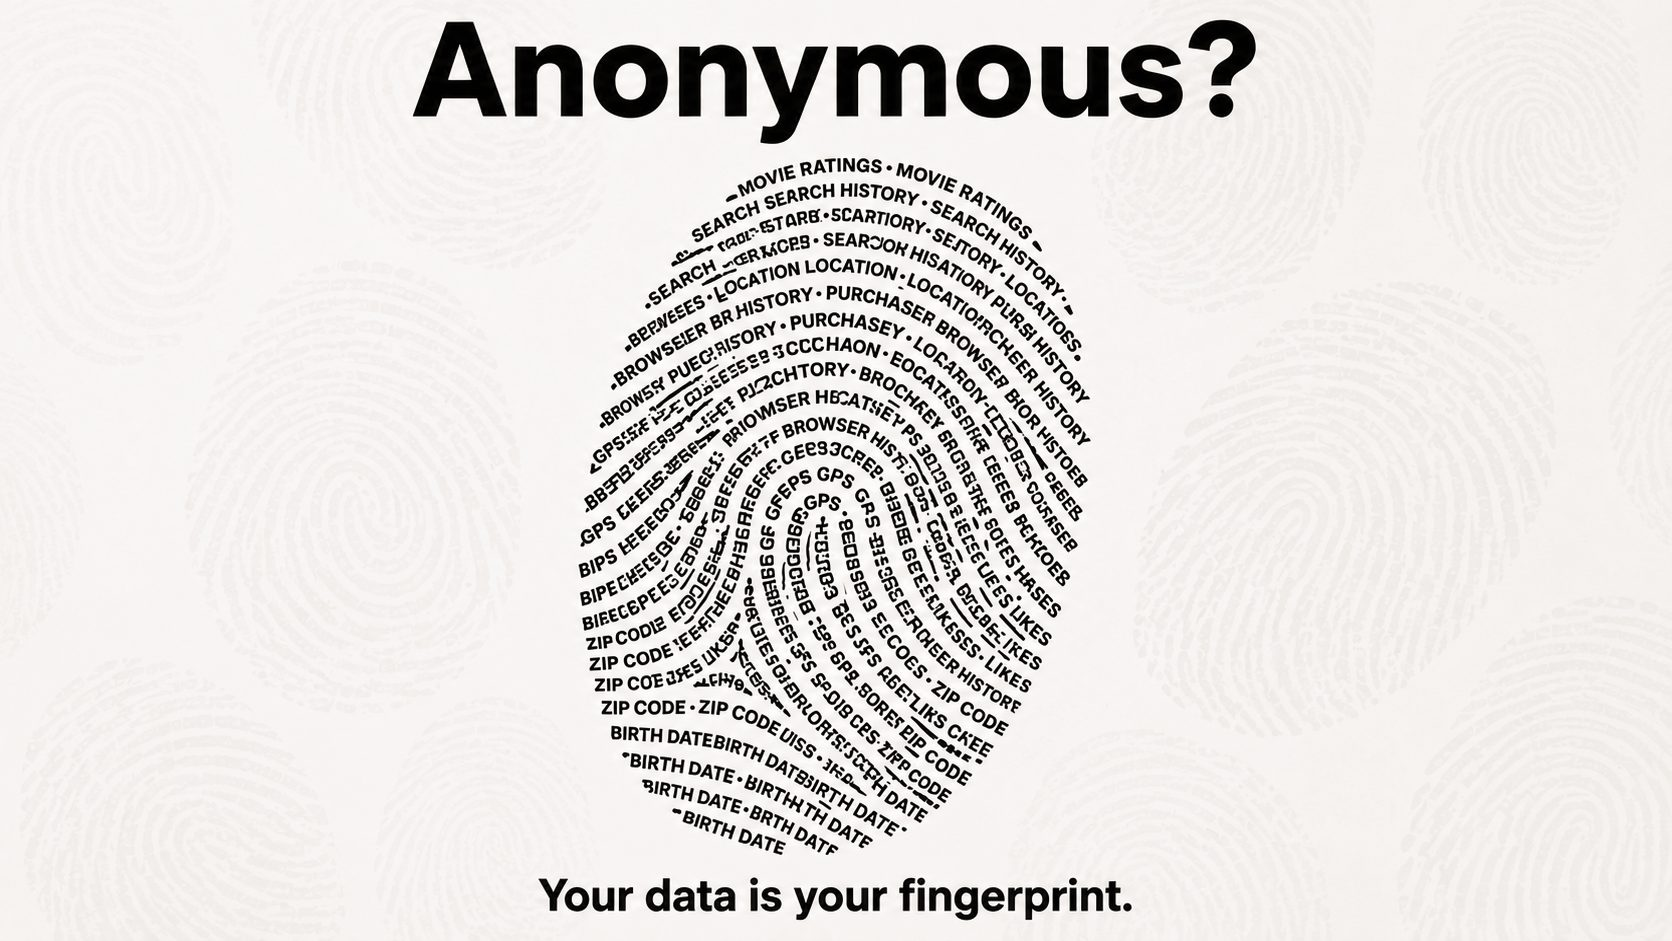
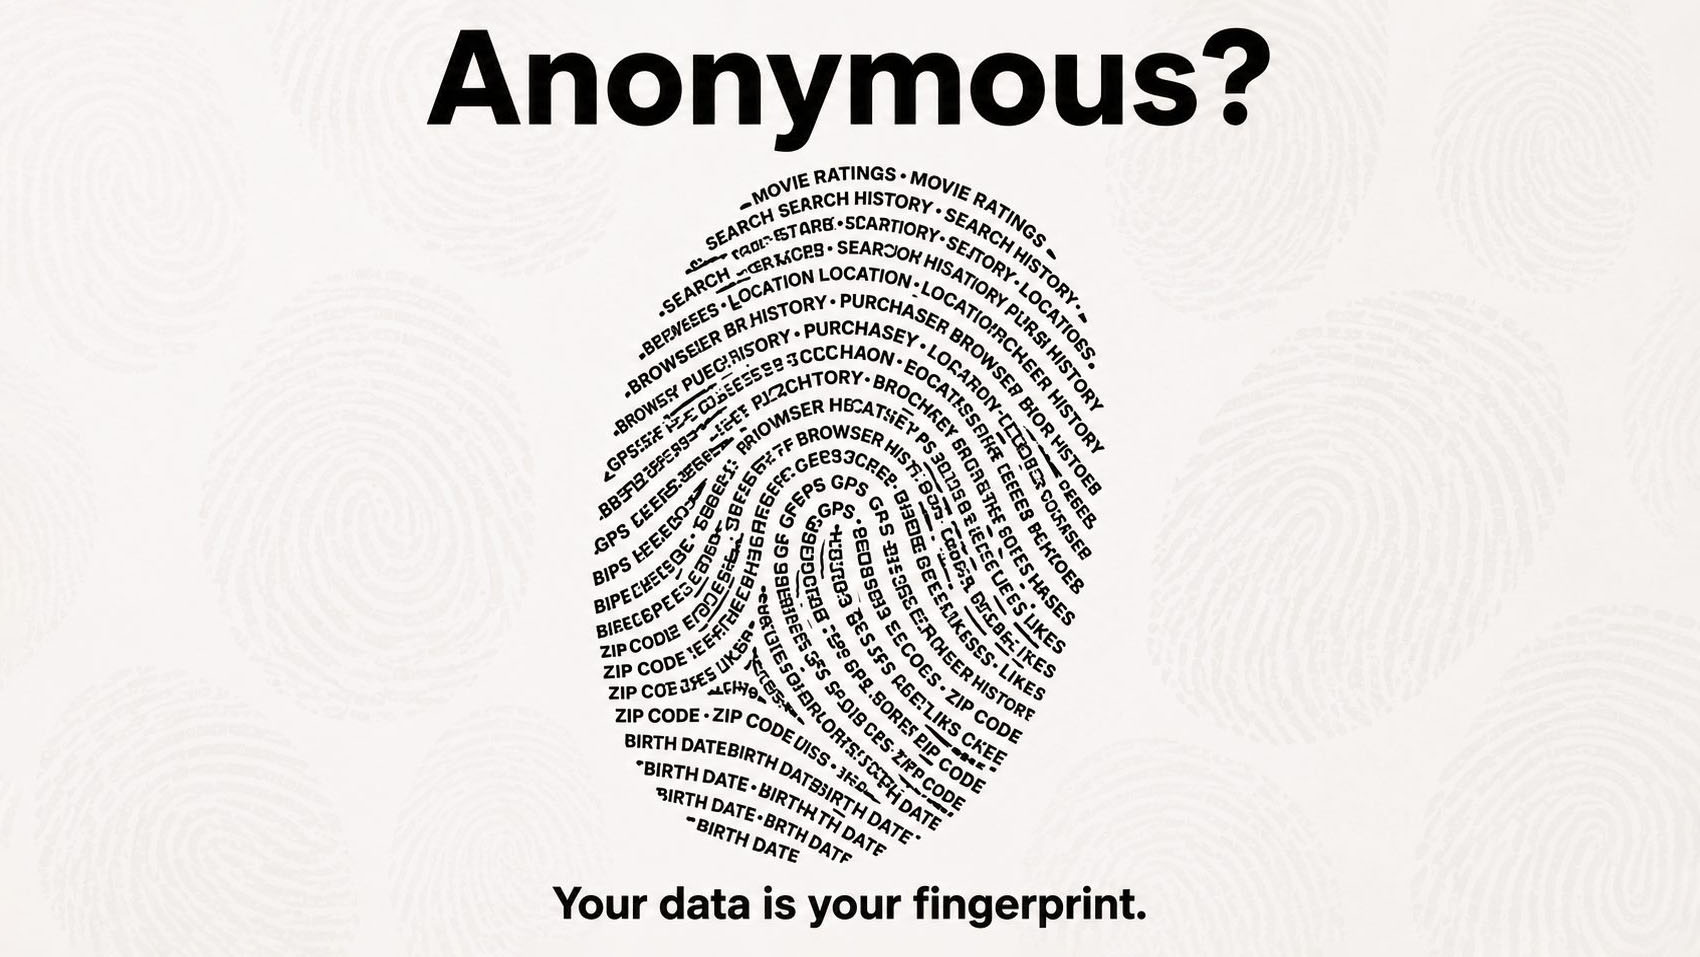
Add article

Changed region(s): [[0.2488, 0.0, 0.7775, 0.9862]]

diff --git a/articles.js b/articles.js
@@ -1,5 +1,11 @@
 const articles = [
   {
+    "title": "Four Ways to Fix Class Imbalance. You've Probably Only Tried One.",
+    "url": "https://www.linkedin.com/pulse/four-ways-fix-class-imbalance-youve-probably-only-tried-fahim-ahamed-f6eye",
+    "image": "assets/article-thumbnails/four-ways-to-fix-class-imbalance.jpg",
+    "category": "Machine Learning"
+  },
+  {
     "title": "Your Anonymized Data Probably Isn't",
     "url": "https://www.linkedin.com/pulse/your-anonymized-data-probably-isnt-fahim-ahamed-oshye",
     "image": "assets/article-thumbnails/your-anonymized-data-probably-isnt.jpg",
@@ -24,7 +30,7 @@ const articles = [
     "category": "Deep Learning"
   },
   {
-    "title": "Your XAI Tools Are Both Right. Here's Why They Disagree.",
+    "title": "Your XAI Tools Are Both Right. Here's Why They Disagree",
     "url": "https://www.linkedin.com/pulse/your-xai-tools-both-right-heres-why-disagree-fahim-ahamed-18yoe",
     "image": "assets/article-thumbnails/your-xai-tools-are-both-right-here-s-why-they-disagree.jpg",
     "category": "Explainable AI"

diff --git a/index.html b/index.html
@@ -86,7 +86,7 @@
           <span>of records processed for analytics and ML pipelines</span>
         </div>
         <div>
-          <strong>80+</strong>
+          <strong>85+</strong>
           <span>articles on data science &amp; machine learning</span>
         </div>
         <div>